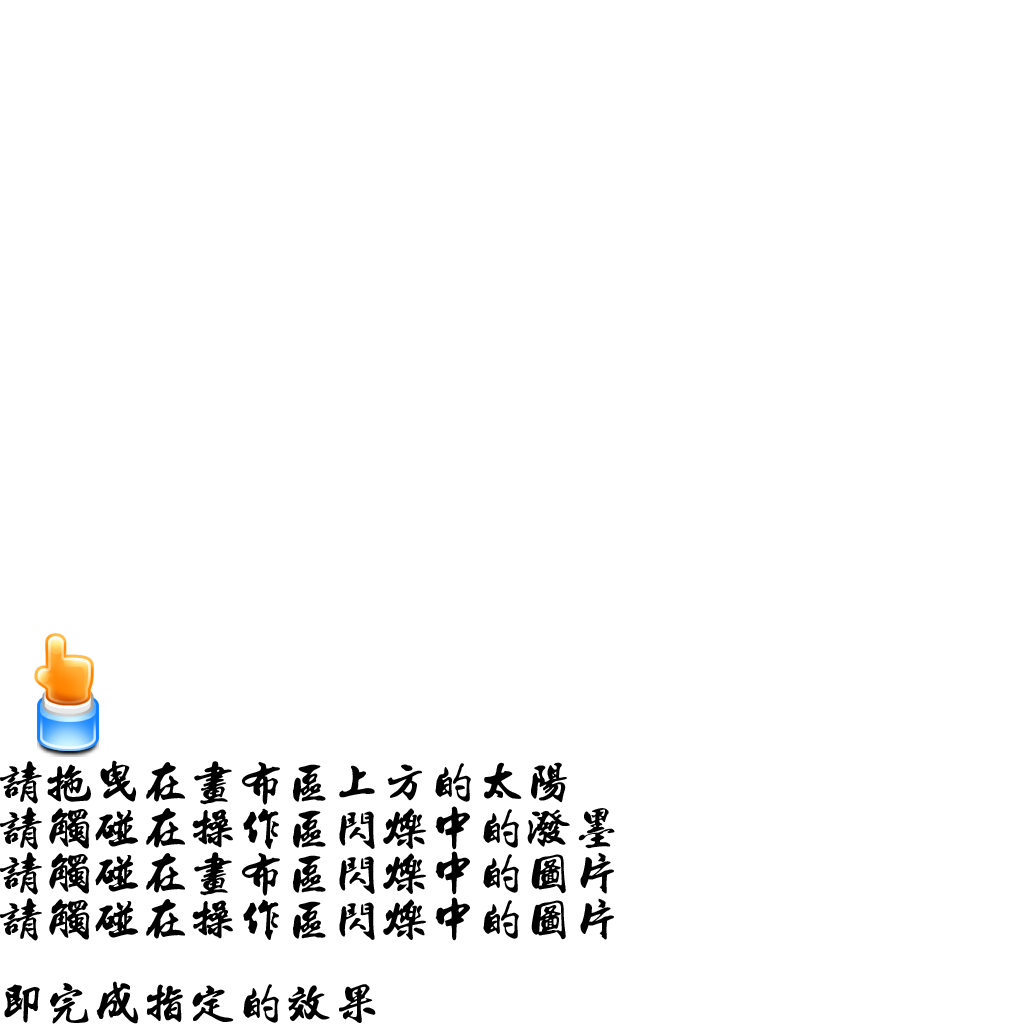
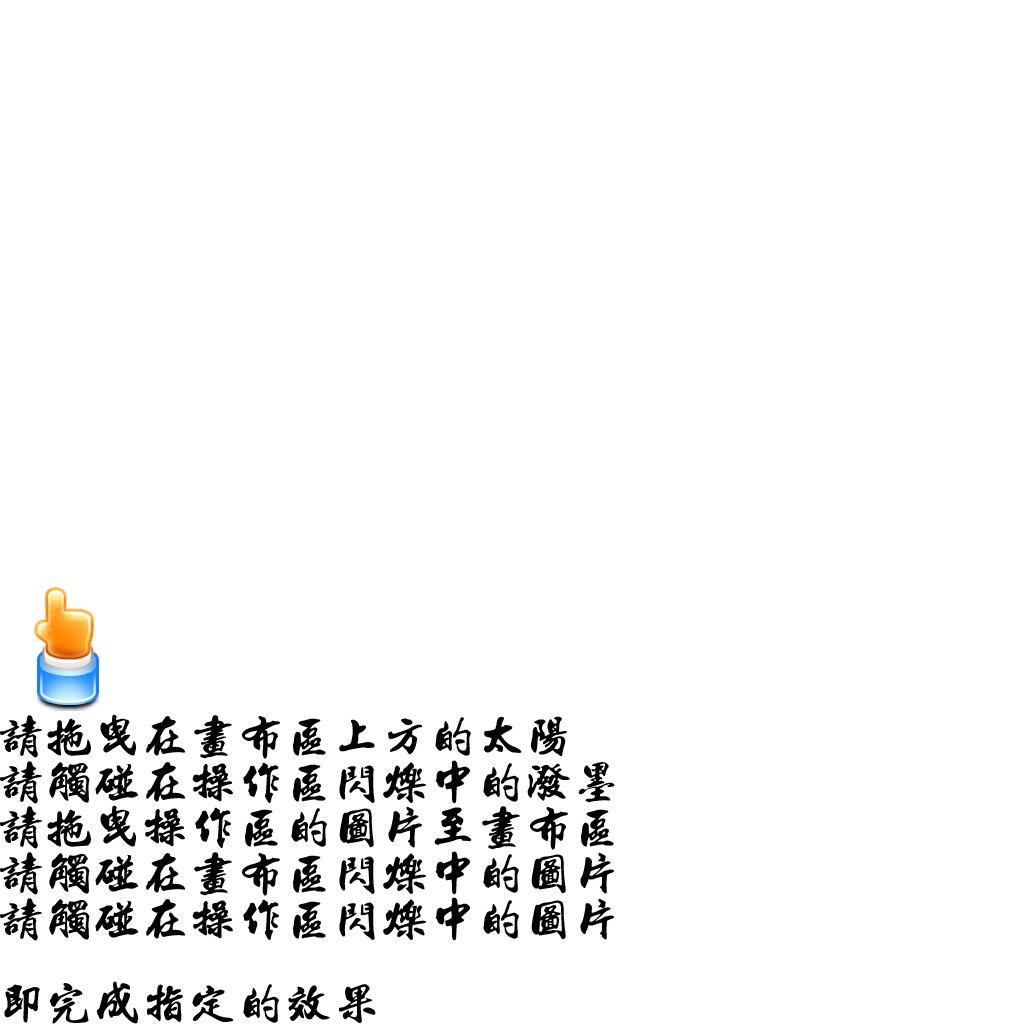
提示程式修正

Changed region(s): [[0.0, 0.5625, 0.5938, 0.8438]]

diff --git a/GCOHS_JIC/Assets/05_Script/PlayHintBoneAnimation.cs b/GCOHS_JIC/Assets/05_Script/PlayHintBoneAnimation.cs
@@ -4,7 +4,7 @@ using System.Collections;
 public class PlayHintBoneAnimation : MonoBehaviour
 {
 
-    public static SetColorBoneAnimation script;
+    public static PlayHintBoneAnimation script;
 
     // Use this for initialization
     private SmoothMoves.BoneAnimation boneAnimation;
@@ -12,6 +12,7 @@ public class PlayHintBoneAnimation : MonoBehaviour
     public AnimationType animationType;
     void Start()
     {
+        script = this;
         boneAnimation = this.GetComponent<SmoothMoves.BoneAnimation>();
         boneAnimation.playAutomatically = false;
     }
@@ -34,6 +35,9 @@ public class PlayHintBoneAnimation : MonoBehaviour
             case AnimationType.操作閃爍潑墨:
                 boneAnimation.Play(AnimationType.操作閃爍潑墨.ToString());
                 break;
+            case AnimationType.拖曳操作畫布:
+                boneAnimation.Play(AnimationType.拖曳操作畫布.ToString());
+                break;
             case AnimationType.空動畫:
                 boneAnimation.Play(AnimationType.空動畫.ToString());
                 break;
@@ -49,6 +53,7 @@ public class PlayHintBoneAnimation : MonoBehaviour
         操作閃爍潑墨 = 1,
         操作閃爍圖片 = 2,
         畫布上方太陽 = 3,
-        空動畫 = 4
+        拖曳操作畫布 = 4,
+        空動畫 = 5
     }
 }
